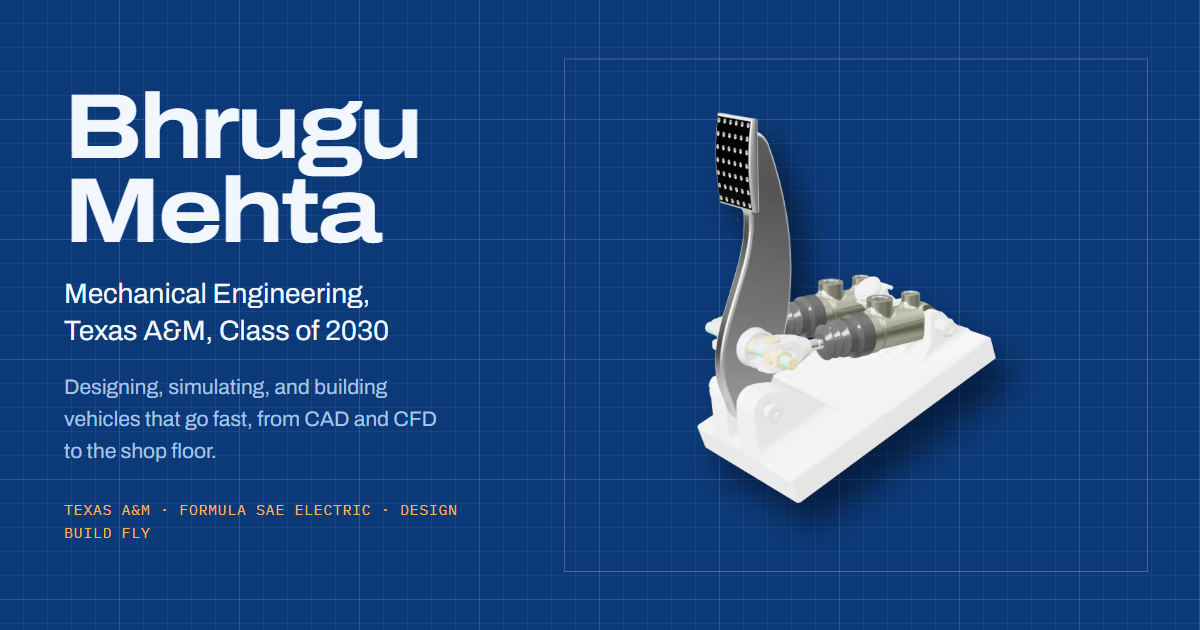
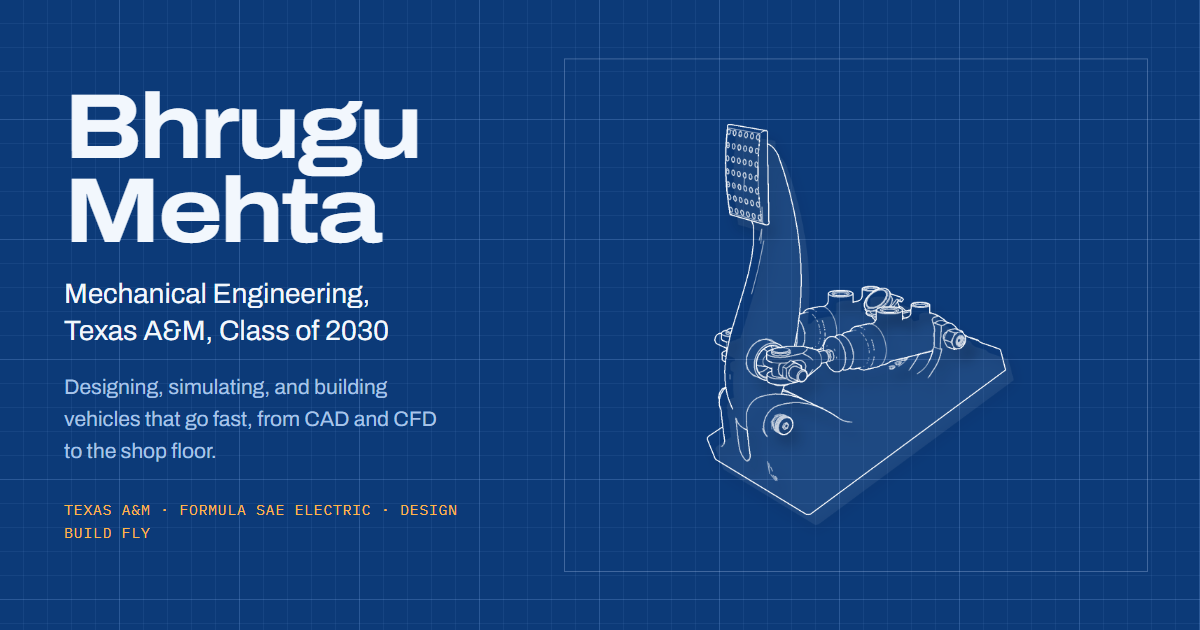
Make the hero drawing a white-on-blue wireframe
The hero now shows the CAD linework at full strength, lifted off the sheet, over a
faint white face tint, with the dimension callouts kept. Also fixes the linework
thickening step, which had been dropping most of the lines, by doing it inside the
render page.

Changed region(s): [[0.5858, 0.181, 0.8633, 0.8444]]

diff --git a/src/styles.css b/src/styles.css
@@ -221,9 +221,11 @@ h1 { font-size: var(--step-display); letter-spacing: -0.035em; line-height: 0.92
 .layer { position: absolute; inset: 0; }
 .layer picture, .layer img { width: 100%; height: 100%; }
 .layer img { object-fit: contain; }
-.layer.lines picture { opacity: 0.62; }
-.layer.lines { translate: calc(var(--px, 0) * 3px) calc(var(--py, 0) * 3px); }
-.layer.solid { transform: translate(-26px, -32px); filter: drop-shadow(26px 34px 22px rgba(var(--shadow), 0.6)); translate: calc(var(--px, 0) * 14px) calc(var(--py, 0) * 14px); }
+/* The hero is a pure wireframe: white CAD linework lifted off the sheet, over a faint white face tint. */
+.layer.lines { z-index: 1; translate: calc(var(--px, 0) * 12px) calc(var(--py, 0) * 12px); }
+.layer.lines picture { transform: translate(-10px, -12px); filter: drop-shadow(10px 14px 8px rgba(var(--shadow), 0.55)); }
+.layer.solid { z-index: 0; opacity: 0.075; filter: brightness(0) invert(1); translate: calc(var(--px, 0) * 4px) calc(var(--py, 0) * 4px); }
+.layer.notes { z-index: 2; }
 .layer.notes { overflow: visible; translate: calc(var(--px, 0) * 7px) calc(var(--py, 0) * 7px); }
 .layer { transition: translate 700ms var(--ease-out); }
 .notes path { fill: none; stroke: var(--ink); stroke-width: 1.6; vector-effect: non-scaling-stroke; stroke-dasharray: 1; stroke-dashoffset: 0; }
@@ -241,8 +243,8 @@ h1 { font-size: var(--step-display); letter-spacing: -0.035em; line-height: 0.92
 @media (prefers-reduced-motion: no-preference) {
   .drawing-frame { animation: frame-in 900ms var(--ease-plot) both; }
   .layer.lines img { animation: plot 1700ms var(--ease-plot) 200ms both; }
-  .layer.lines picture { animation: settle-lines 900ms var(--ease-out) 1700ms both; }
-  .layer.solid picture { animation: lift 1100ms var(--ease-out) 1500ms both; }
+  .layer.lines picture { animation: lift-lines 1000ms var(--ease-out) 1750ms both; }
+  .layer.solid picture { animation: fade 900ms var(--ease-out) 1500ms both; }
   .notes path, .notes circle { animation: draw 700ms var(--ease-plot) both; animation-delay: calc(2300ms + var(--i, 0) * 140ms); }
   .notes text { animation: fade 500ms var(--ease-out) both; animation-delay: calc(2500ms + var(--i, 0) * 140ms); }
   .notes .dim { --i: 0; } .notes .force, .notes .ratio { --i: 1; }
@@ -254,8 +256,10 @@ h1 { font-size: var(--step-display); letter-spacing: -0.035em; line-height: 0.92
 }
 @keyframes frame-in { from { clip-path: inset(0 100% 100% 0); } to { clip-path: inset(0 0 0 0); } }
 @keyframes plot { from { clip-path: inset(0 100% 0 0); } to { clip-path: inset(0 0 0 0); } }
-@keyframes settle-lines { from { opacity: 1; } to { opacity: 0.62; } }
-@keyframes lift { from { opacity: 0; transform: translate(26px, 32px) scale(0.985); } to { opacity: 1; transform: none; } }
+@keyframes lift-lines {
+  from { transform: none; filter: drop-shadow(0 0 0 rgba(var(--shadow), 0)); }
+  to { transform: translate(-10px, -12px); filter: drop-shadow(10px 14px 8px rgba(var(--shadow), 0.55)); }
+}
 @keyframes draw { from { stroke-dashoffset: 1; } to { stroke-dashoffset: 0; } }
 @keyframes fade { from { opacity: 0; } to { opacity: 1; } }
 @keyframes rise { from { opacity: 0; transform: translateY(18px); } to { opacity: 1; transform: none; } }

diff --git a/scripts/og.html b/scripts/og.html
@@ -14,8 +14,8 @@
   .og .tagline { margin-top: 30px; font-family: var(--mono); font-size: 15px; color: var(--accent); letter-spacing: 0.04em; text-transform: uppercase; }
   .og .art { position: relative; aspect-ratio: 8 / 7; }
   .og .art img { position: absolute; inset: 0; width: 100%; height: 100%; object-fit: contain; }
-  .og .art .l { opacity: 0.6; }
-  .og .art .s { transform: translate(-18px, -22px); filter: drop-shadow(18px 24px 16px rgba(2, 10, 28, 0.6)); }
+  .og .art .l { z-index: 1; transform: translate(-8px, -10px); filter: drop-shadow(8px 12px 6px rgba(2, 10, 28, 0.55)); }
+  .og .art .s { opacity: 0.075; filter: brightness(0) invert(1); }
   .og .frame { position: absolute; inset: -12px; box-shadow: inset 0 0 0 1px var(--line); }
 </style>
 </head>

diff --git a/scripts/hero-render.html b/scripts/hero-render.html
@@ -109,6 +109,17 @@ for (let y = 1; y < H - 1; y++) {
     out.data[o + 3] = Math.round(v * 255);
   }
 }
+// Thicken to ~2px so the linework survives being scaled down on the page.
+const thick = new Uint8ClampedArray(W * H);
+for (let y = 0; y < H; y++) for (let x = 0; x < W; x++) {
+  let m = 0;
+  for (let dy = 0; dy <= 1; dy++) for (let dx = 0; dx <= 1; dx++) {
+    const yy = Math.min(H - 1, y + dy), xx = Math.min(W - 1, x + dx);
+    m = Math.max(m, out.data[(yy * W + xx) * 4 + 3]);
+  }
+  thick[y * W + x] = m;
+}
+for (let i = 0; i < W * H; i++) out.data[i * 4 + 3] = thick[i];
 const cv = document.createElement('canvas'); cv.width = W; cv.height = H;
 cv.getContext('2d').putImageData(out, 0, 0);
 const lines = cv.toDataURL('image/png');
